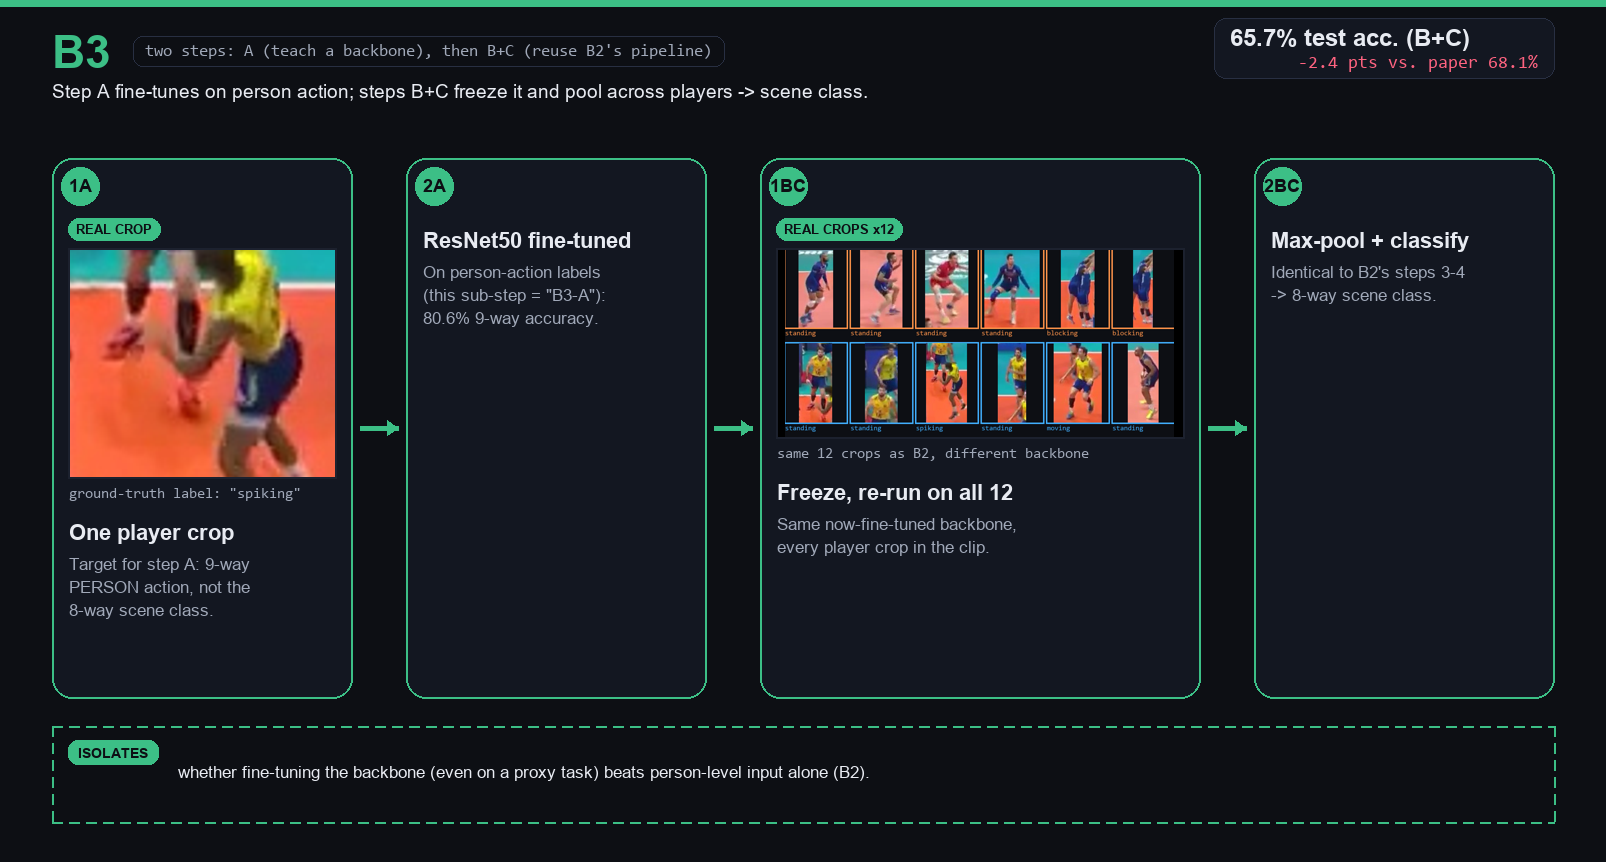
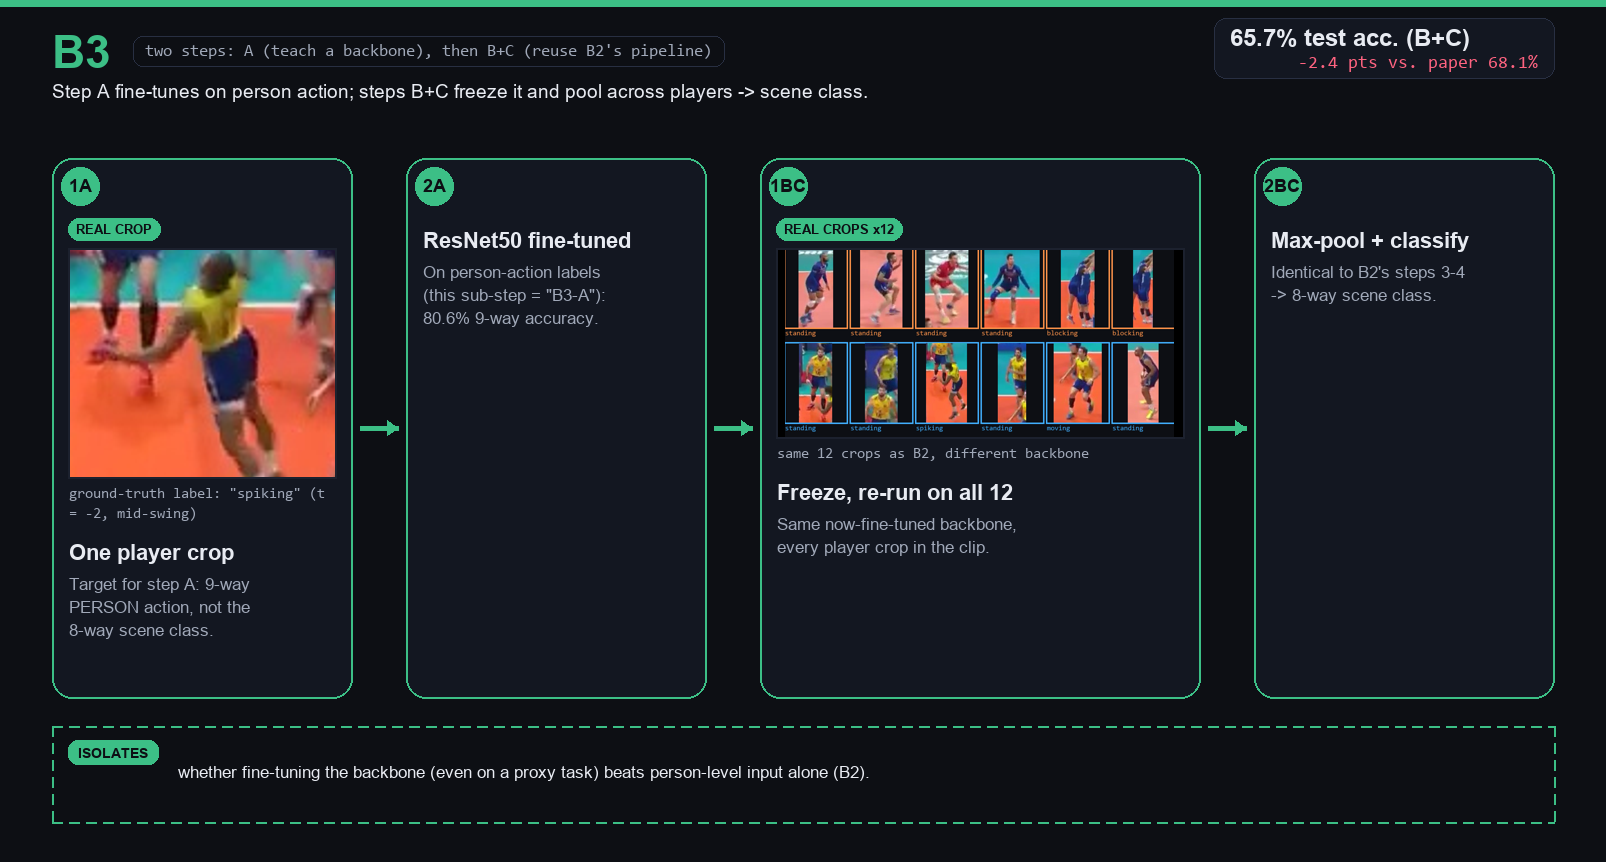
Use the mid-swing frame for the single-player spike crop
The B3/B8-mt "one player crop" illustration used the clip's exact center
frame, which happens to catch this player just after landing rather than
mid-hit, so the spike was hard to read at a glance. The ground-truth
"spiking" label was correct either way (verified against annotations.txt
and the tracking file, unaffected), but swapped to frame t=-2 of the same
real tracked sequence, where the arm-cocked swing is actually visible.

Changed region(s): [[0.0311, 0.2715, 0.2179, 0.5731], [0.0311, 0.5731, 0.1557, 0.7541]]

diff --git a/src/evaluation/make_pipeline_diagrams_v2.py b/src/evaluation/make_pipeline_diagrams_v2.py
@@ -151,6 +151,17 @@ def img_player_crop(p, pad=6):
     return A["center_im"].crop(box)
 
 
+def img_tracked_crop_at(frame, pad=10):
+    """Crop the spiker's real tracked box at a specific frame (not necessarily
+    the clip's center frame) -- same real track, same ground-truth label
+    ('spiking' holds for every frame in this clip's track), just picked for
+    whichever frame actually shows the swing instead of the landing."""
+    x1, y1, x2, y2, _ = A["tracks"][A["spiker_tid"]][frame]
+    im = frame_im(frame)
+    box = (max(0, x1 - pad), max(0, y1 - pad), min(im.width, x2 + pad), min(im.height, y2 + pad))
+    return im.crop(box)
+
+
 def img_filmstrip():
     thumbs = []
     for fr in A["frames"]:
@@ -250,7 +261,10 @@ def img_all_players_grid():
 
 # pre-build the handful of real-image assets every baseline draws from
 ASSETS = {
-    "spiker_single": img_player_crop(next(p for p in A["players"] if p["action"] == "spiking")),
+    # frame 94538 (t=-2): mid-swing, arm cocked back -- the clearest "spiking"
+    # frame in this clip; the exact center frame (t=0) catches the landing
+    # instead, same real player, same real "spiking" ground-truth track.
+    "spiker_single": img_tracked_crop_at(94538),
     "player_grid": img_all_players_grid(),
     "filmstrip": img_filmstrip(),
     "spiker_seq": img_spiker_sequence(),
@@ -442,7 +456,7 @@ pipeline_diagram(
     [
         {"num": "1A", "label": "One player crop", "sub": ["Target for step A: 9-way", "PERSON action, not the",
                                                             "8-way scene class."],
-         "image": ASSETS["spiker_single"], "caption": 'ground-truth label: "spiking"',
+         "image": ASSETS["spiker_single"], "caption": 'ground-truth label: "spiking" (t = -2, mid-swing)',
          "photo_h": 230, "cover": True, "tag": "REAL CROP"},
         {"num": "2A", "label": "ResNet50 fine-tuned", "sub": ["On person-action labels", "(this sub-step = \"B3-A\"):",
                                                                 "80.6% 9-way accuracy."]},
@@ -552,7 +566,7 @@ pipeline_diagram(
                                                         "9-step output."]},
         {"num": "4a", "label": "Action head (per player)", "sub": ["Attached directly to LSTM1's", "output, before any pooling",
                                                                      "-> 9-way action per player."],
-         "image": ASSETS["spiker_single"], "caption": 'this player\'s own prediction -> "spiking"',
+         "image": ASSETS["spiker_single"], "caption": 'this player -> "spiking" (t = -2, mid-swing)',
          "photo_h": 185, "cover": True, "tag": "REAL CROP"},
         {"num": "4b", "label": "Team pool -> LSTM2", "sub": ["Identical to B8's branch,", "completely unchanged."],
          "image": ASSETS["team_split"], "caption": "B8's team-split pooling branch, reused as-is",
